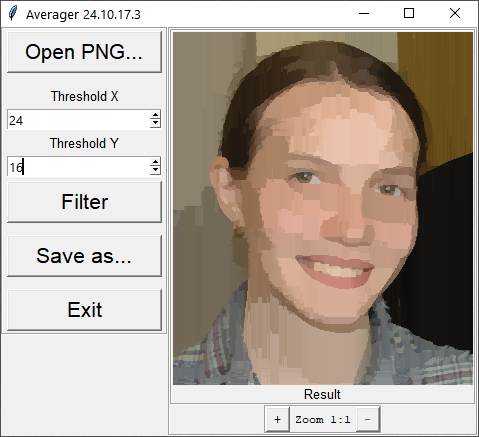
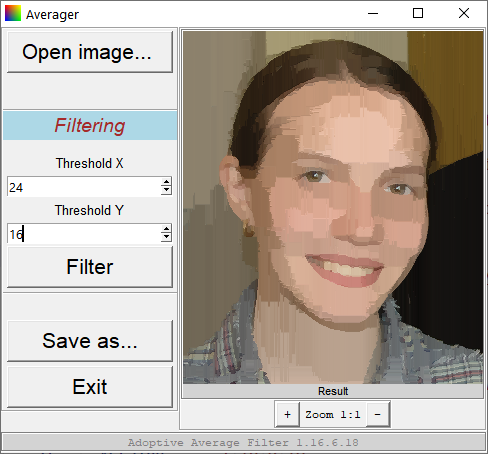
POVThread update

Changed region(s): [[0.0, 0.0, 1.0, 1.0], [0.7599, 0.0, 0.7891, 0.0297], [0.6138, 0.5057, 0.643, 0.5355]]

diff --git a/povthread.html b/povthread.html
@@ -51,7 +51,9 @@
             <p>Unlike regular color reduction utilities, like ones used to create GIF files, &laquo;Averager&raquo; does not build common palette for the whole image but rather tries to find, isolate, and flatten smooth areas based on local contrast, that is closer to idea of using single thread for the area.</p>
             <p>&laquo;Averager&raquo; is an accessory since it does not produce POV files - it loads PNG file, filters image, and saves filtered image as PNG.</p>
             <p>To simplify visual filtering adjustments, &laquo;Averager&raquo; is equipped with minimal yet suitable GUI.</p>
-            <p><img src='thread/ave.png' width='479' height='437'></p>
+            <p><span class='red'><b>Update:</b></span> Since ver.&nbsp;1.16.6.18 POV&#8209;Ray&nbsp;Thread, beside easy to use GUI, got adaptive averaging filter linked, so now it is capable to perform image filtering on its own; therefore additional utility became obsolete. However, updated version of &laquo;Averager&raquo; remains included into this package as a good example of writing fully functional image filtering application using pure Python only.</p>
+            <p>Funfact: both of these programs (along with some others from this site) support zooming in/out with left/right clicks on preview.</p>
+            <p><img src='thread/ave.png' width='488' height='454'></p>
         </div>
         <p class='lightbg justborder'>Now it's time to <a href='https://github.com/Dnyarri/POVthread' class='git'>download POV&#8209;Ray&nbsp;Thread from GitHub</a> and start building your own textile scenes.</p>
         <br>

diff --git a/index.html b/index.html
@@ -48,7 +48,7 @@
             <a href='povthread.html'><img src='thread/l.png' width='246' height='130' class='floatleft'></a>
             <a href='povthread.html'><img src='thread/r.png' width='247' height='130' class='floatright'></a>
             <p><a href='povthread.html'>Linen and Stitch</a> are programs, which read pixels of source image and convert them into a complex 3D structure, simulating something textile and thread related, in <a href='https://www.povray.org/'>POV-Ray</a> format. Currently tabby/linen plain weave, and cross-stitching simulations are provided. Exported 3D structures are configurable regarding thread appearance and pattern distortions.</p>
-            <p><span class='red'><b>Update:</b></span> Color simplification utility &laquo;Averager&raquo; added to repository, allowing to simulate using single thread for flat color image area. <a href='povthread.html'><i> Read more...</i></a></p>
+            <p><span class='red'><b>Update:</b></span> Color simplification utility &laquo;Averager&raquo; now merged with main POV&#8209;Ray Thread application, allowing to perform image reading, 2D preprocessing, and 3D exporting using single application. <a href='povthread.html'><i> Read more...</i></a></p>
         </div>
         <h4 class='darkbg'>Scale2x, Scale3x, Scale2xSFX and Scale3xSFX in pure Python</h4>
         <div class='lightbg justborder'>
